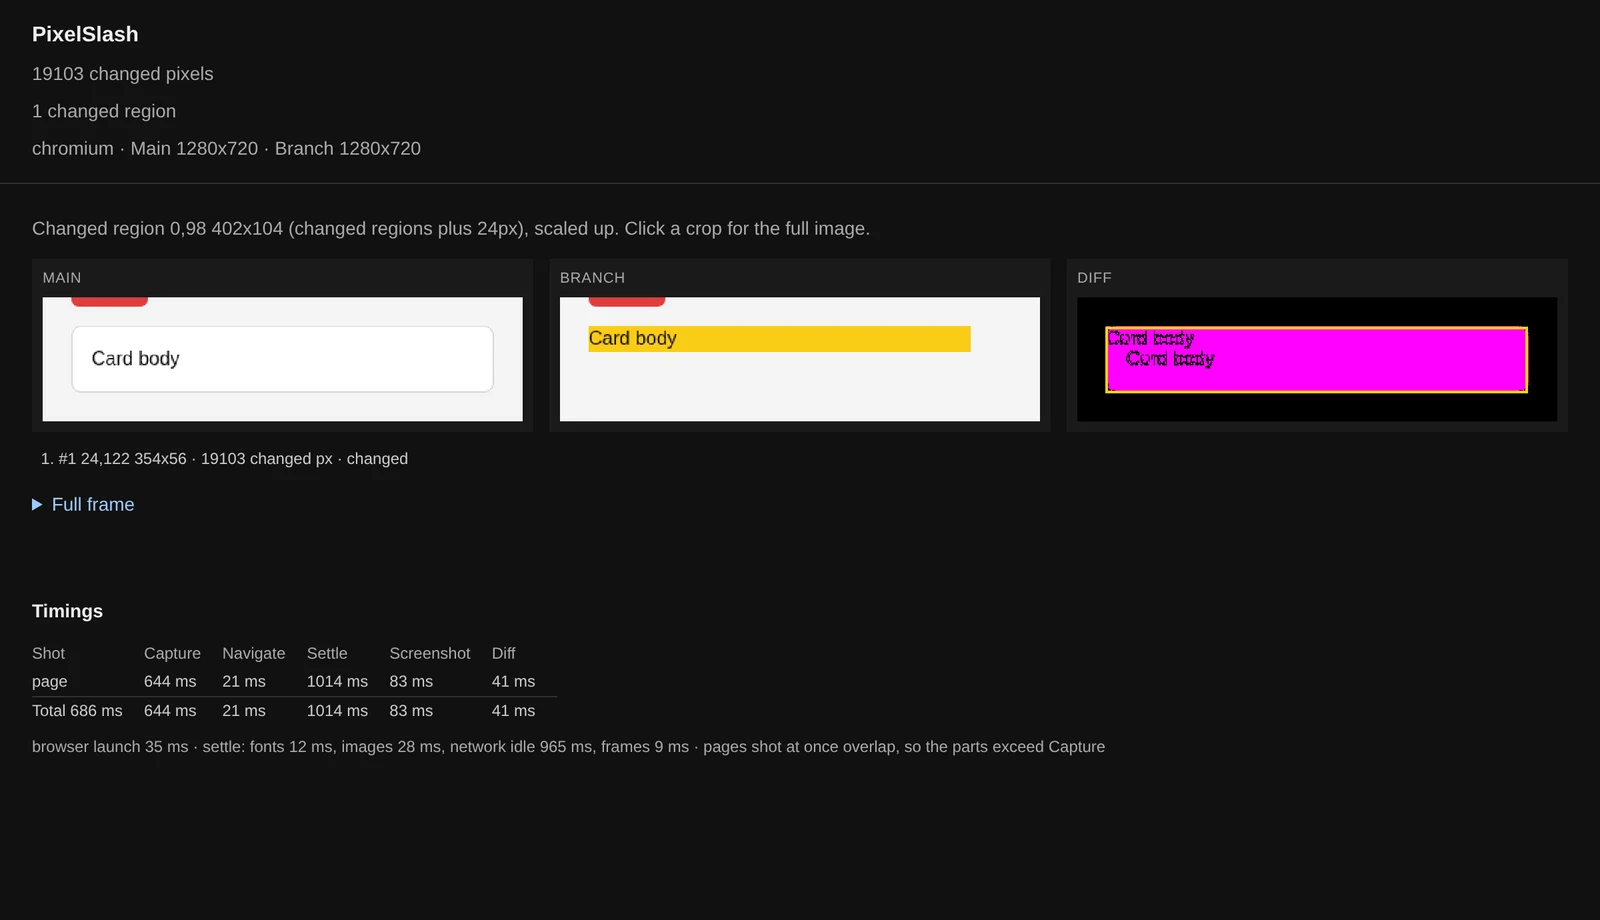
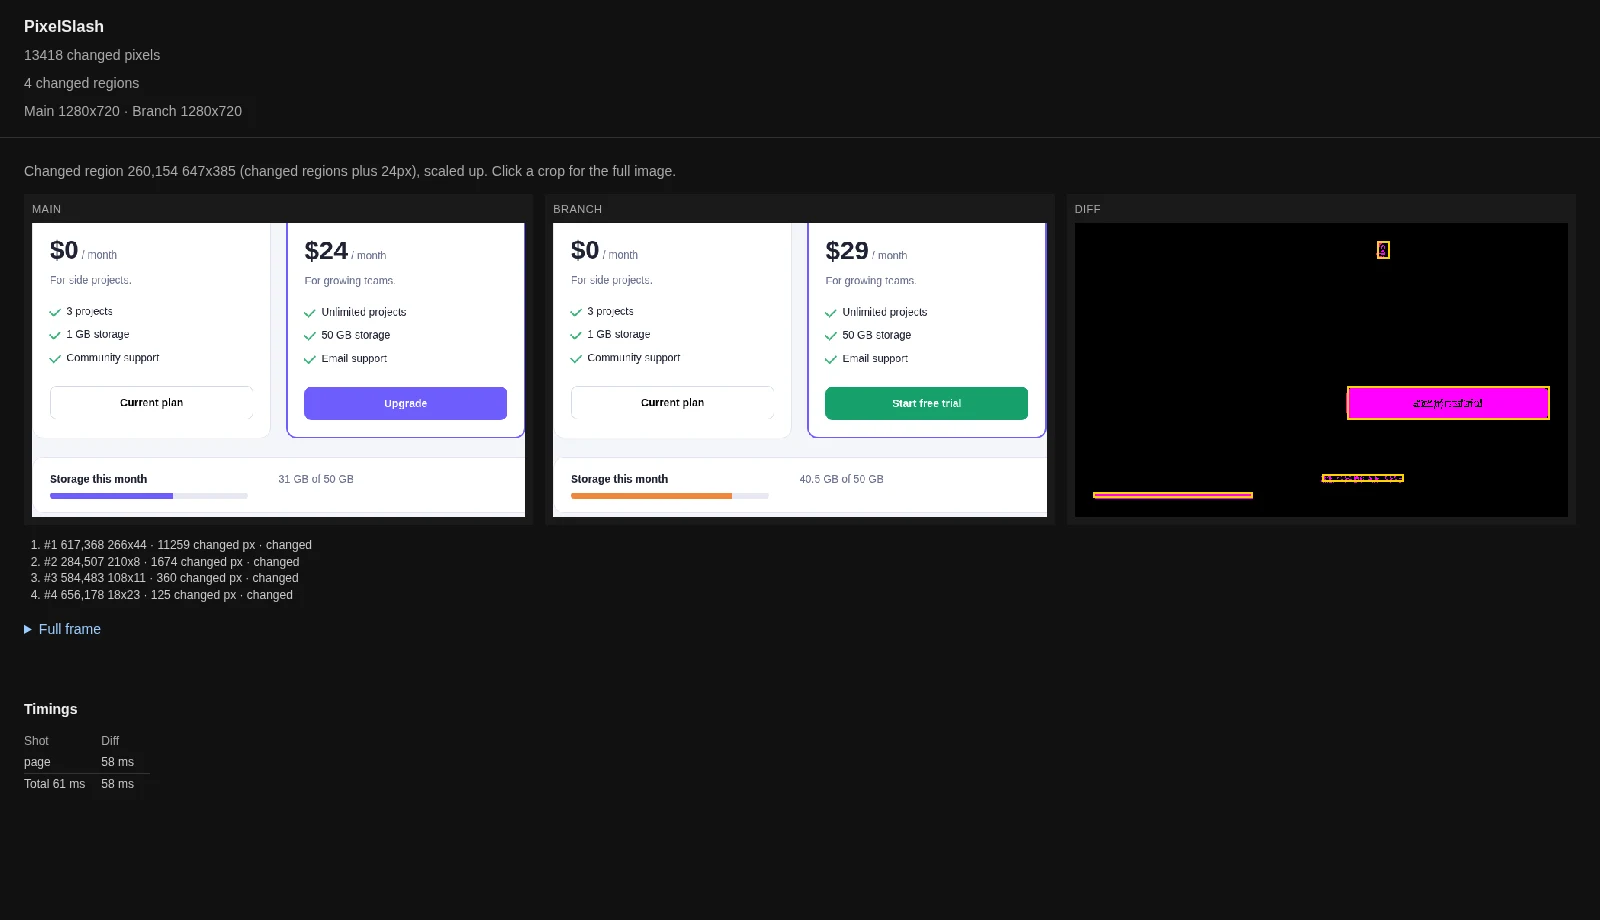
feat(hack-cove-site): show the current PixelSlash review screens
The home page's PixelSlash block now shows a build on the review server (changed shots to review, Review next and Accept all, each shot cropped to what moved with the AI judge's verdict), and the /pixelslash/ page shows a fresh report.html of a pricing page with four changed regions. Both replace captures of older PixelSlash versions.

diff --git a/apps/hack-cove-site/src/content/site.ts b/apps/hack-cove-site/src/content/site.ts
@@ -121,9 +121,9 @@ const pixelslash = {
     src: "/pixelslash/report.webp",
     width: 1600,
     height: 920,
-    alt: "A PixelSlash report for one changed card: the Main, Branch and Diff shots side by side, each cropped to the changed region, with the change marked in magenta on the Diff.",
+    alt: "A PixelSlash report for a pricing page: the Main, Branch and Diff shots side by side, cropped to the four changed regions (a new price, a new button and a fuller storage bar), with the changes marked in magenta on the Diff.",
     caption:
-      "A real report.html. One card changed, so the report shows Main, Branch and the diff of that region, and nothing else.",
+      "A real report.html. Four regions changed, so the report shows Main, Branch and the diff cropped to them, lists each region, and leaves the rest of the page out.",
   },
   how: {
     title: "How it works",

diff --git a/apps/hack-cove-site/src/content/products.ts b/apps/hack-cove-site/src/content/products.ts
@@ -61,7 +61,7 @@ export const products: Product[] = [
     ],
     image: {
       src: "/home/pixelslash.webp",
-      alt: "PixelSlash comparing two versions of a billing page: Main left of the slash, Branch right of it, with boxes around the regions that changed.",
+      alt: "A PixelSlash review server build of Hack Cove UI: 178 changed shots to review, a progress bar with Review next and Accept all, and the first changed shots cropped to what moved, each with its theme, size and the AI judge's verdict.",
     },
   },
   {

diff --git a/apps/hack-cove-site/test/site.test.tsx b/apps/hack-cove-site/test/site.test.tsx
@@ -266,7 +266,7 @@ describe("the PixelSlash page", () => {
     expect(html).toContain(`alt="${pixelslash.report.alt}"`);
     expect(html).toContain("<figcaption");
     expect(readFileSync(new URL("../public/pixelslash/report.webp", import.meta.url)).length).toBe(
-      38254,
+      39310,
     );
   });
 
